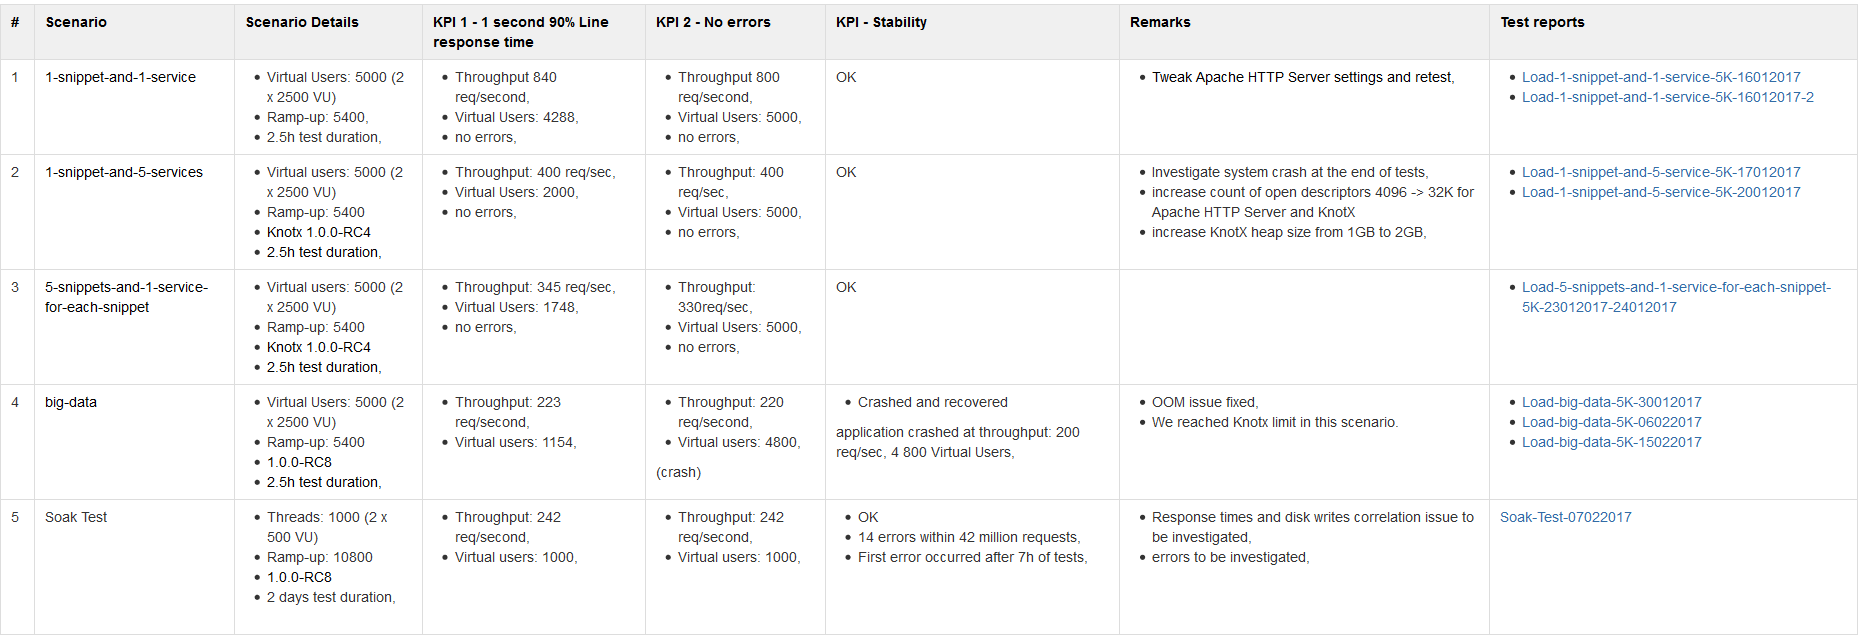
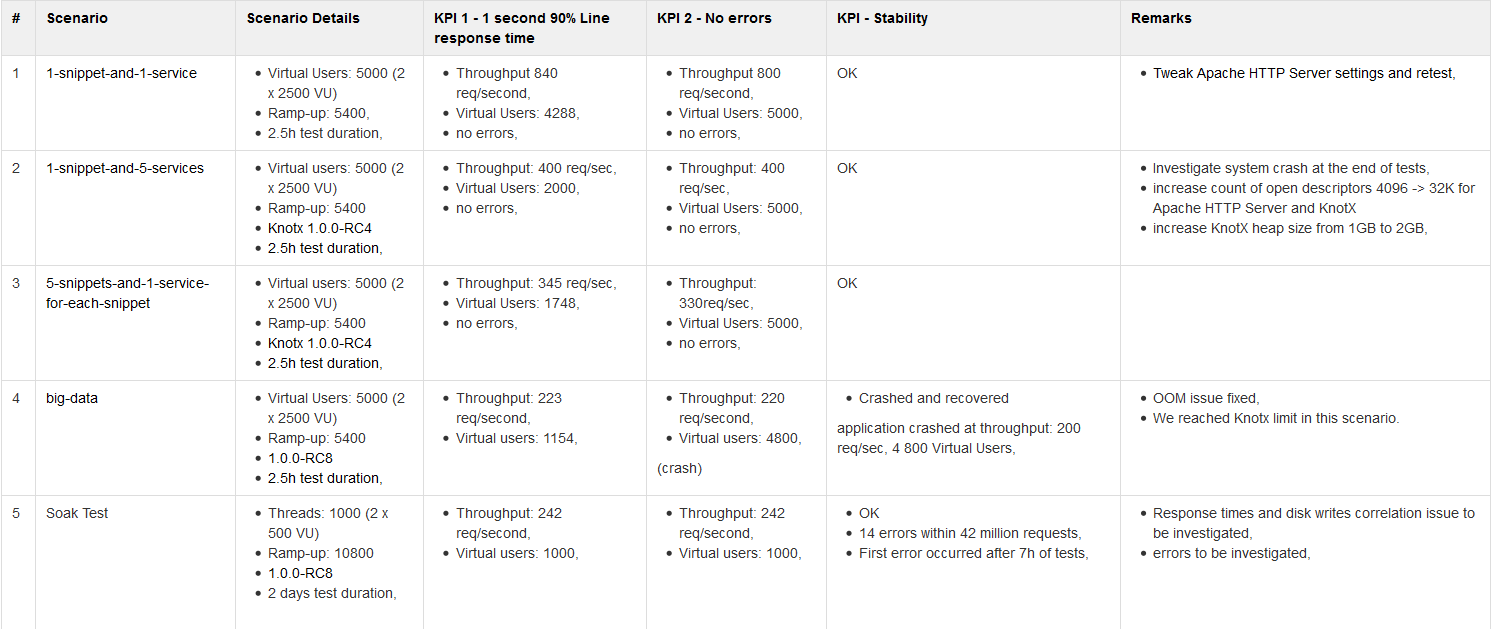
Changed image. Image is clickable

diff --git a/documentation/src/main/wiki/PerformanceTestsSummary.md b/documentation/src/main/wiki/PerformanceTestsSummary.md
@@ -10,4 +10,5 @@ This page gathers all tests summaries, recommendations and actions undertaken.
 * [[Several fixes applied to Knot.x as well as configuration tweaks both for Knot.x and Apache HTTP Server|PerformanceTestsTuning]]
 
 ## Tests Summary
-![Test summary](assets/knotx-perf-tests-summary.png)
+[ ![Test summary](assets/knotx-perf-tests-summary.png) ](assets/knotx-perf-tests-summary.png)
+(click to view details)
